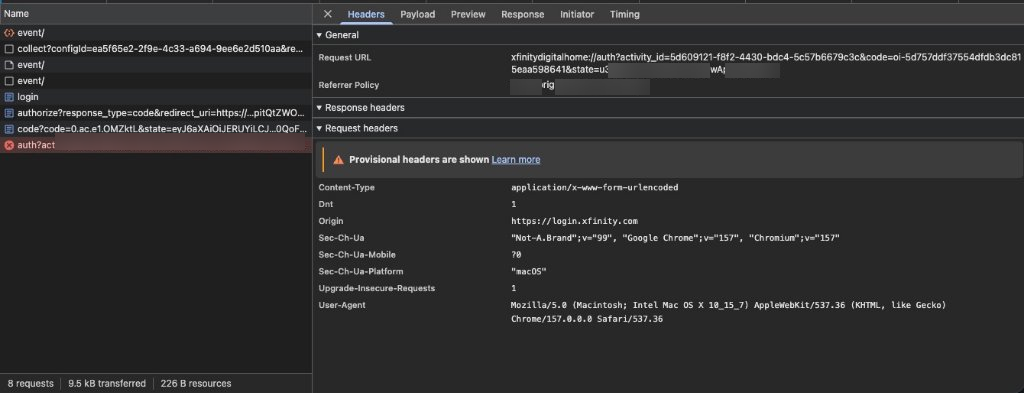
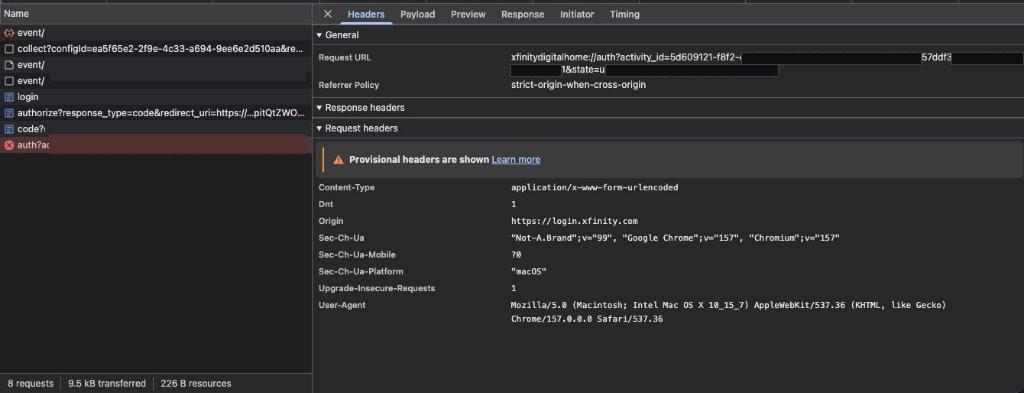
fix(auth): clean exception hierarchy, decouple diagnostic address, and apply solid redactions to docs screenshot

Changed region(s): [[0.5, 0.1221, 1.0, 0.2443], [0.0312, 0.3053, 0.3125, 0.3969]]

diff --git a/scripts/test_auth.py b/scripts/test_auth.py
@@ -68,6 +68,10 @@ def save_browser_session(auth: BrowserAuthorization) -> None:
 
     flags = os.O_WRONLY | os.O_CREAT | os.O_TRUNC
     fd = os.open(SESSION_FILE, flags, 0o600)
+    try:
+        os.fchmod(fd, 0o600)
+    except OSError:
+        pass
     with open(fd, "w") as f:
         f.write(json.dumps(payload))
 
@@ -156,7 +160,7 @@ async def complete_browser_handoff() -> None:
             address = (
                 os.environ.get("XFINITY_ADDRESS")
                 or env_vars.get("XFINITY_ADDRESS")
-                or "Primary Account"
+                or ""
             )
             await verify_account_data(session, refresh_token, address)
         except Exception as err:
@@ -176,22 +180,34 @@ async def verify_account_data(
         token_state["current_refresh"] = new_refresh
 
     client = XfinityClient(
-        session, address, refresh_token, on_tokens_rotated=on_rotated
+        session,
+        address or "Primary Account",
+        refresh_token,
+        on_tokens_rotated=on_rotated,
     )
     try:
         await client.async_ensure_token()
 
         summary = await client.async_fetch_usage(date.today())
-        outage = await client.async_fetch_outage()
-
-        print("\n[SUCCESS] Full end-to-end verification confirmed without Browserless!")
+        print("\n[SUCCESS] Authentication and GraphQL usage query verified!")
         print(f"  Usage status:   {summary.get('status')}")
         if "used_gb" in summary:
             print(f"  Used GB:        {summary.get('used_gb')} GB")
         if "allowance_gb" in summary:
             print(f"  Allowance GB:   {summary.get('allowance_gb')} GB")
-        print(f"  Outage status:  {outage.get('status')}")
-        print("\nAccount access is fully verified and ready for Home Assistant.")
+
+        if address and address != "Primary Account":
+            try:
+                outage = await client.async_fetch_outage()
+                print(f"  Outage status:  {outage.get('status')}")
+            except Exception as err:
+                print(f"  [WARN] Outage query failed for address '{address}': {err}")
+        else:
+            print(
+                "  Outage check:   Skipped (set XFINITY_ADDRESS to verify outage endpoint)"
+            )
+
+        print("\nAccount access is verified and ready for Home Assistant.")
     except Exception as err:
         print(f"\n[ERROR] Account data verification failed: {err}")
         sys.exit(1)

diff --git a/tests/test_login.py b/tests/test_login.py
@@ -11,6 +11,7 @@ from custom_components.xfinity.login import (
     XfinityLoginError,
     XfinityLoginRejected,
     XfinityMfaRequired,
+    XfinityTokenExchangeError,
     async_browserless_login,
     code_from_callback,
 )
@@ -191,7 +192,7 @@ async def test_exchange_errors():
         )
 
     # 500 server error
-    with pytest.raises(BrowserlessError):
+    with pytest.raises(XfinityTokenExchangeError):
         await async_browserless_login(
             _Session(token_status=500), "user@example.com", "secret", "k" * 20
         )

diff --git a/custom_components/xfinity/login.py b/custom_components/xfinity/login.py
@@ -49,7 +49,7 @@ class BrowserlessError(XfinityLoginError):
     """Browserless rejected the key or could not run the browser."""
 
 
-class XfinityTokenExchangeError(BrowserlessError):
+class XfinityTokenExchangeError(XfinityLoginError):
     """The OAuth token exchange endpoint rejected or failed the request."""
 
 
